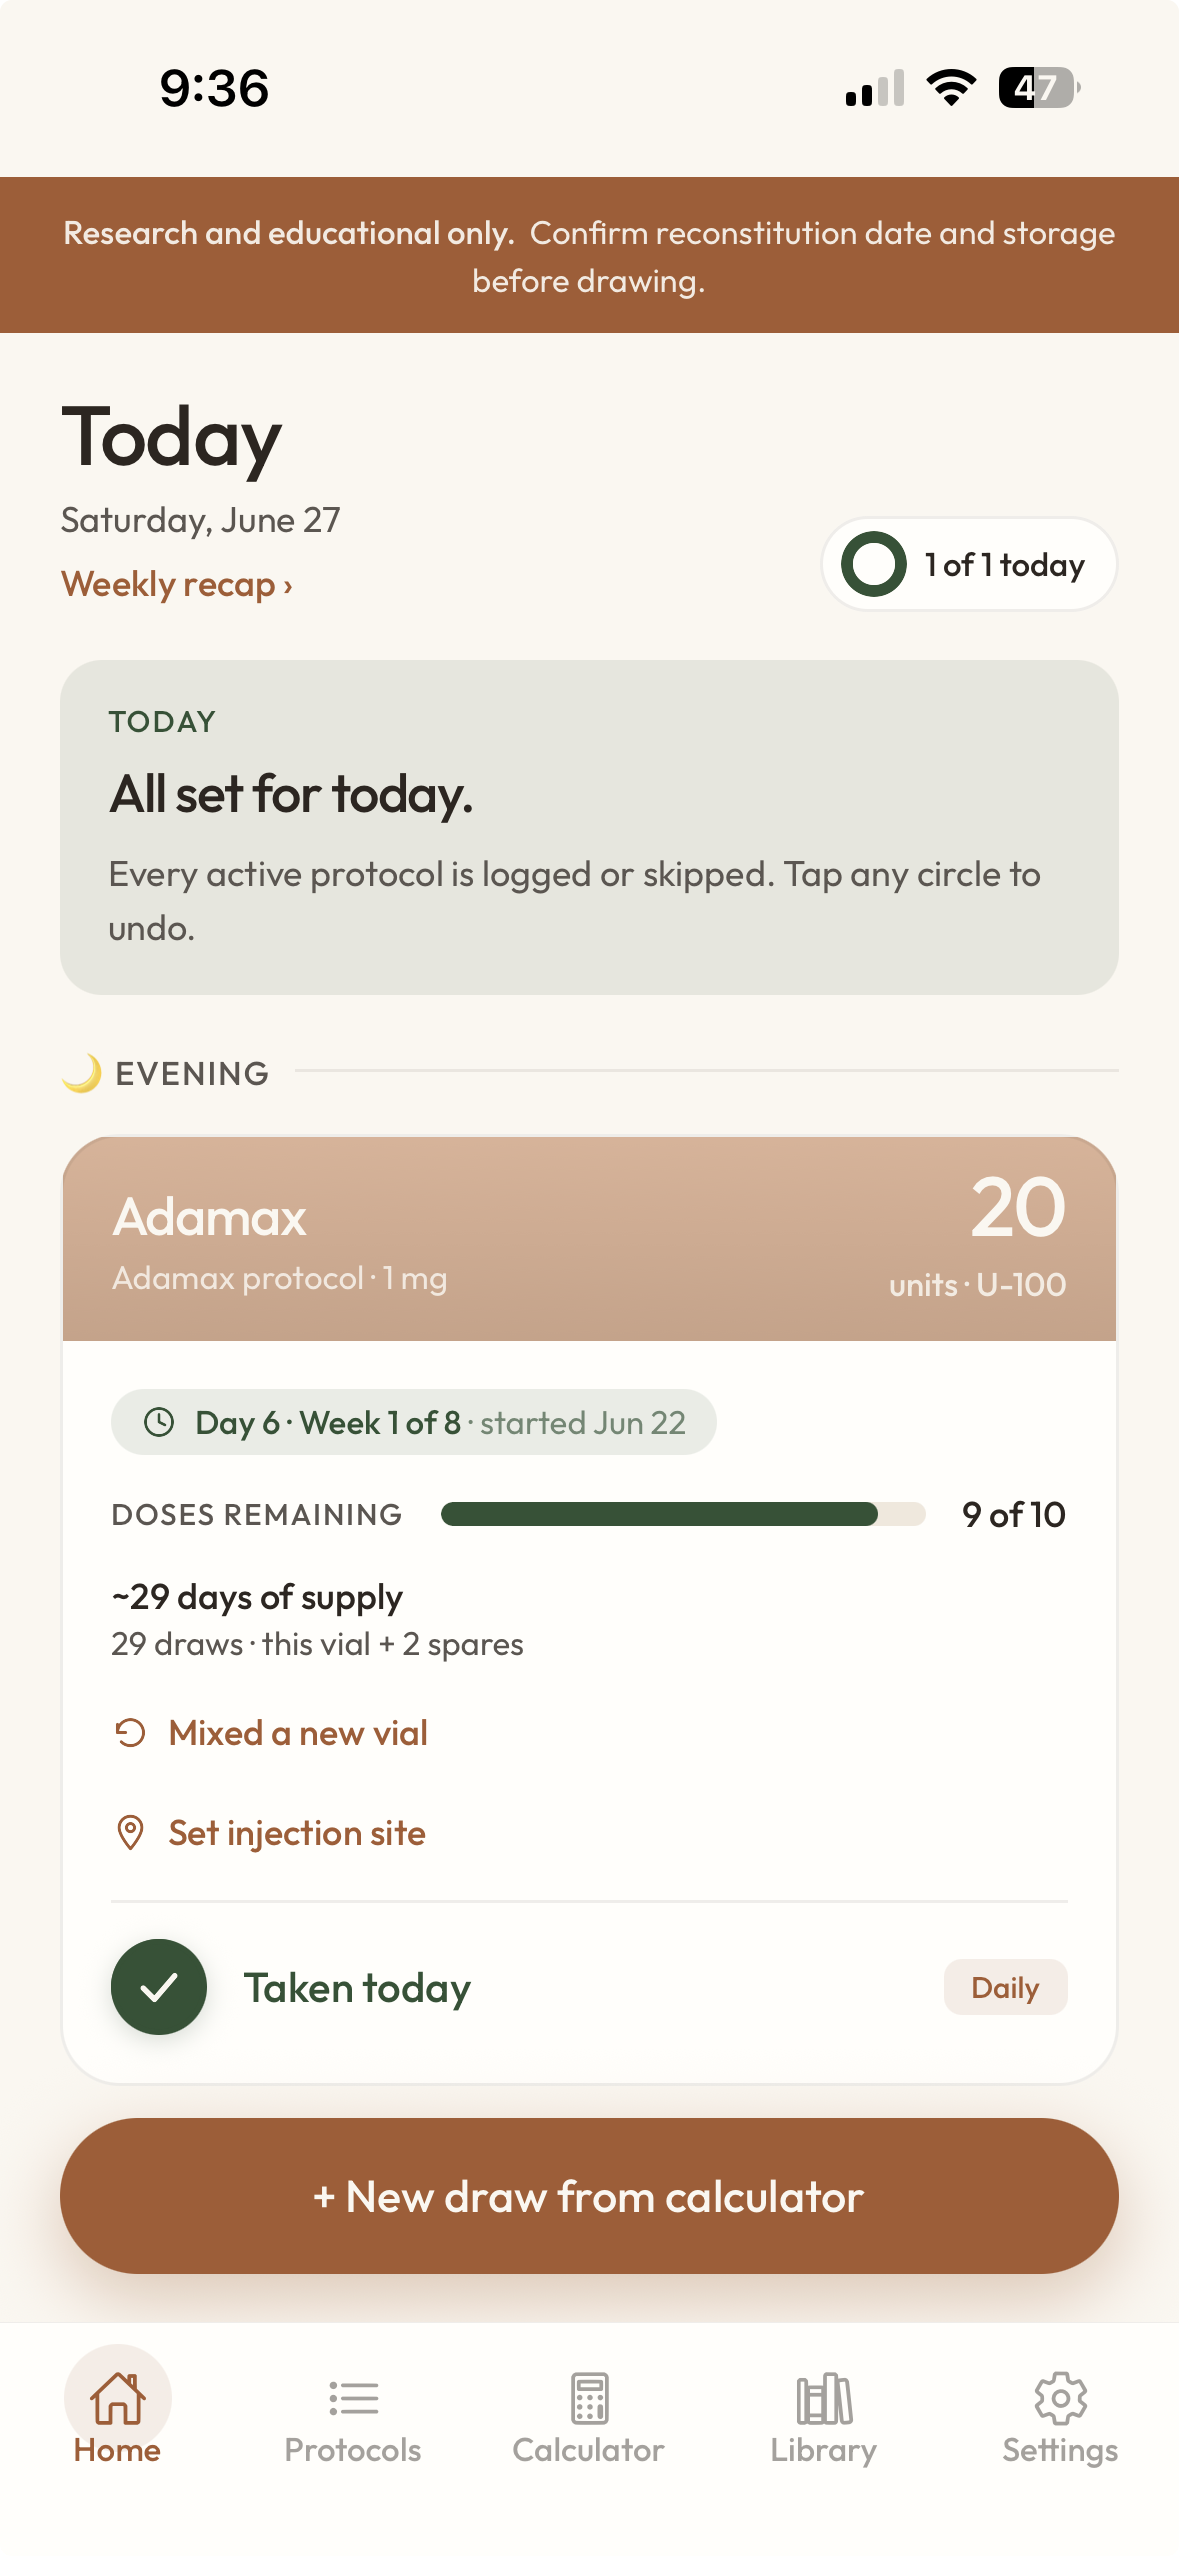
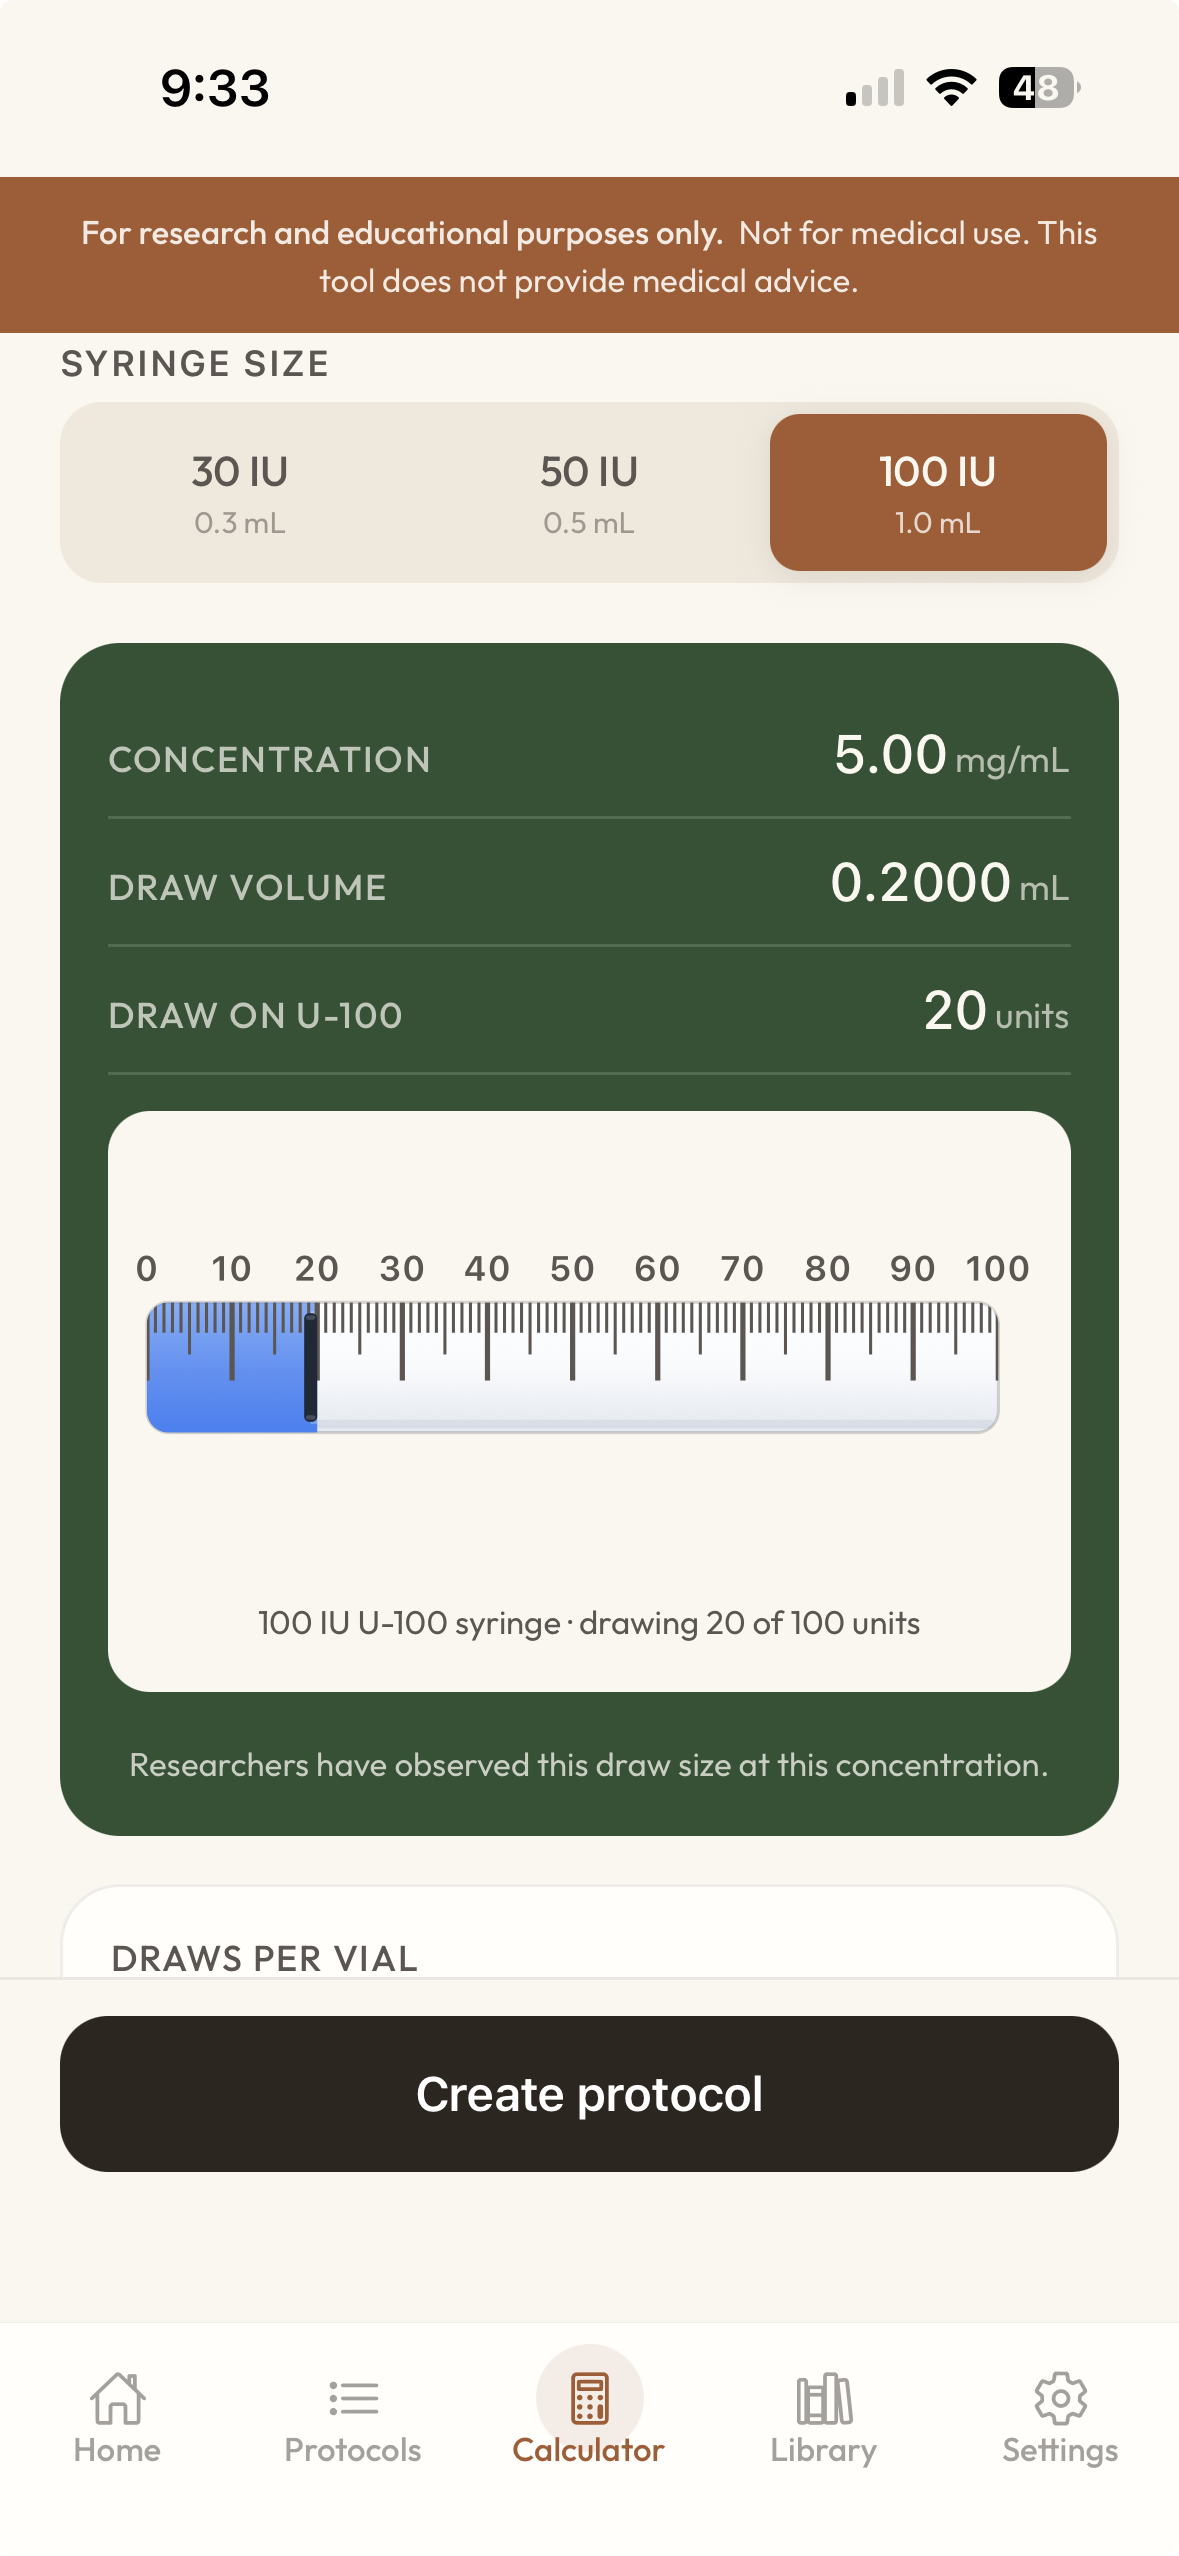
chore(hero): swap hero image to the calculator screen (no peptide name)
Replace the Today-screen capture with the reconstitution-calculator screenshot
(ss1.png over public/hero-today.png, same filename so the src markup is
unchanged). The calculator screen shows no peptide name, avoiding the
flagged-peptide concern with the prior Adamax capture. Alt text updated to
describe the calculator (U-100 syringe draw). Same 1179x2556 dimensions, so
width/height are unchanged.

diff --git a/src/components/Hero.tsx b/src/components/Hero.tsx
@@ -80,16 +80,17 @@ export function Hero() {
 }
 
 /**
- * HeroVisual — the real Vialwise "Today" screen in a CSS phone frame.
+ * HeroVisual — a real Vialwise app capture in a CSS phone frame.
  *
- * Drops a real App-capture (public/hero-today.png — the populated Today / dose
- * log: a saved protocol with today's dose checked off, plus doses remaining and
- * days of supply) into the existing phone frame as an <img>. The screenshot
- * already carries its own iOS status bar, so the frame draws only the
- * Dynamic-Island pill over the status bar's empty centre — there is no second
- * status bar. The <img> has descriptive alt text and is not a heading, so it
- * stays out of the page's heading outline (the old hand-built mock's h3/h4
- * leaked into it).
+ * Drops a real screenshot (public/hero-today.png — the reconstitution calculator:
+ * syringe size, concentration, draw volume, and the draw position on a U-100
+ * syringe, under the research-and-educational disclaimer) into the existing phone
+ * frame as an <img>. The filename is carried over from the prior capture so the
+ * src markup is unchanged. The screenshot already carries its own iOS status bar,
+ * so the frame draws only the Dynamic-Island pill over the status bar's empty
+ * centre — there is no second status bar. The <img> has descriptive alt text and
+ * is not a heading, so it stays out of the page's heading outline (the old
+ * hand-built mock's h3/h4 leaked into it).
  */
 function HeroVisual() {
   return (
@@ -105,7 +106,7 @@ function HeroVisual() {
           {/* eslint-disable-next-line @next/next/no-img-element */}
           <img
             src="/hero-today.png"
-            alt="The Vialwise Today screen: a saved peptide protocol with today's dose checked off, showing doses remaining and days of supply, under a research-and-educational disclaimer."
+            alt="The Vialwise reconstitution calculator showing the concentration, draw volume, and the draw position on a U-100 syringe, under a research-and-educational disclaimer."
             width={1179}
             height={2556}
             className="h-full w-full object-cover"